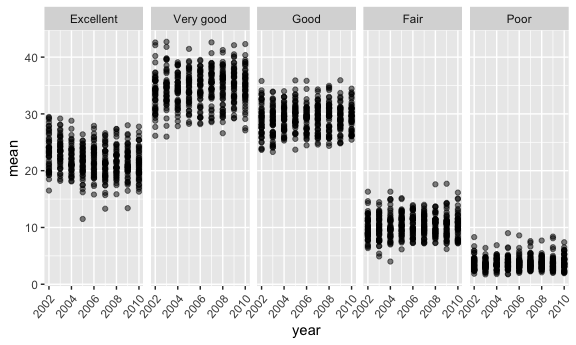
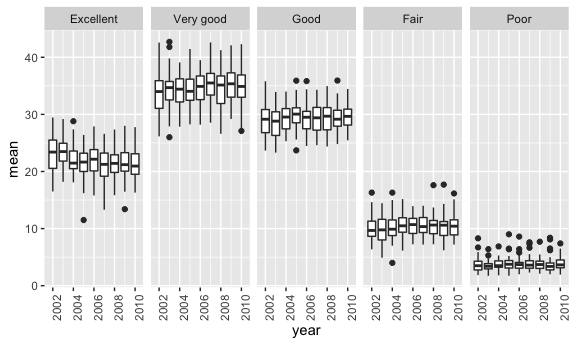
Final commit

diff --git a/p8105_hw3.md b/p8105_hw3.md
@@ -32,10 +32,9 @@ brfss_data %>%
 | FL    |    7|
 | MA    |    7|
 
+The table above shows the only states which had data on exactly seven counties in 2002.
+
 ``` r
-#During 2002, the only three states which had data on exactly seven counties were Connecticut, Florida, and Massachusetts
-
-
 brfss_data %>% 
   distinct(county, year, .keep_all = TRUE) %>%
   select(c(year, state, county)) %>%
@@ -45,12 +44,11 @@ brfss_data %>%
     geom_line()
 ```
 
-<img src="p8105_hw3_files/figure-markdown_github/q1-1.png" width="90%" />
+<img src="p8105_hw3_files/figure-markdown_github/q1_2-1.png" width="90%" />
+
+This plot does not seem to be a good choice for this data set. It is hard to enterpret anything from the graphic, it may be better to try and look into each state on its own rather than comparing them all on one plot. There is one state that is above all the rest in 2007, but this graph does not even allow us to know which state that is. We can see that the states vary a lot from one another. This may have to do with the different sizes of each state. It may be useful to control for size in order for states to be comparable, depending on what information we are trying to extract.
 
 ``` r
-#This plot does not seem to be a good choice for this data set. It is hard to enterpret anything from the graphic, it may be better to try and look into each state on its own rather than comparing them all on one plot.
-
-
 brfss_data %>%
   filter(year %in% c(2002, 2006, 2010), state == "NY", response == "Excellent") %>%
   group_by(year) %>%
@@ -65,38 +63,28 @@ brfss_data %>%
 |  2006|  22.53333|  4.000833|
 |  2010|  22.70000|  3.567212|
 
-``` r
-#It appears the mean did not change too much through the years, the standard deviation does however decrease.
+It appears the mean and the standard deviation of the proportion of "Excellent" responses accross locations in New York both decrease through the three years, although not by large amounts, especially the mean. The proportion of "Excellent" responses seems to be somewhat constant in New York, but may be on the decline.
 
+``` r
 brfss_data %>%
   group_by(year, state, response) %>%
   summarize(mean = mean(data_value, na.rm = T)) %>%
-  ggplot(aes(x = year, y = mean)) +
-  geom_point(alpha = 0.5) +
-  theme(axis.text.x = element_text(angle = 50, hjust = 1)) +
+  ggplot(aes(x = year, y = mean, group = year)) +
+  geom_boxplot() +
+  theme(axis.text.x = element_text(angle = 90, hjust = 1)) +
   facet_grid(. ~ response)
 ```
 
-<img src="p8105_hw3_files/figure-markdown_github/q1-2.png" width="90%" />
+<img src="p8105_hw3_files/figure-markdown_github/q1_4-1.png" width="90%" />
 
-``` r
-#The proportion per each response appears to be consistant accross all the years
-```
+The average proprtion in each response category per state appears to be consistant accross all the years with few outliers. The "Poor" category does appear to have a smaller spread and many more outliers compared to the other categories, but it is still consistant from years 2002 to 2010. The five categories differ very highly from one another however.
 
 Question 2
 ----------
 
 This data consists of 1384617 observations over 15 variables.
 
-There are 134 distinct isles.
-
-``` r
-instacart %>% 
-  distinct(aisle_id) %>%
-  nrow()
-```
-
-    ## [1] 134
+This data set is giving us information on the sales from instacart, telling us what items have been sold with information on the sale such as which isle and departmetn the item bought is from, the time and date it was sold on, and whether this was bought before or not. For example, it tells us that garlic couscous was bought from the instant food isles in the dry goods pasta departmenton Saturday (assuming 6 day of week refers to Saturday) at 3PM.
 
 ``` r
 instacart %>%
@@ -115,6 +103,10 @@ instacart %>%
 | yogurt                     |   55240|
 | packaged cheese            |   41699|
 
+There are 134 distinct isles.
+
+Above tells us which aisles are ordered from the most. It is interesting to see that fresh fruits and vegetables are bought a lot more than from any other aisle, almost double in the amount of orders compared to the next most bought aisle.
+
 ``` r
 instacart_plot1 = instacart %>%
   mutate(aisle_id = factor(aisle_id, levels = c(1:134))) %>%
@@ -123,7 +115,7 @@ instacart_plot1 = instacart %>%
   group_by(aisle_id) %>%
   count() %>%
   ggplot(aes(x = aisle_id, y = n)) +
-  geom_point() +
+  geom_bar(stat = "identity") +
   scale_x_continuous(breaks = seq(0, 67, 5))
 
 
@@ -134,13 +126,15 @@ instacart_plot2 = instacart %>%
   group_by(aisle_id) %>%
   count() %>%
   ggplot(aes(x = aisle_id, y = n)) +
-  geom_point() +
+  geom_bar(stat = "identity") +
   scale_x_continuous(breaks = seq(68, 134, 5))
 
 instacart_plot1 / instacart_plot2
 ```
 
-<img src="p8105_hw3_files/figure-markdown_github/q2-1.png" width="90%" />
+<img src="p8105_hw3_files/figure-markdown_github/q2_2-1.png" width="90%" />
+
+Above we can see the number of items ordered in each aisle. It is difficult to order aisles sensibly and make it readable due to the sheer amount of aisles. In order to try and maxamize readability, I used aisle ID instead of name. Although this does not make it interpritable off the bat it is easy to go back to the data set and see what each number is referig to. Dividing the plot into two also makes it easier to read what number pertains to which bar. Here we see that 24 and 83 are very high. Looking into these numbers tells us that these are the aisles for fresh fruit and fresh vegetables, which matches with our previous table.
 
 ``` r
 instacart %>%
@@ -171,6 +165,8 @@ instacart %>%
 | packaged vegetables fruits | Organic Raspberries                             |  5546|
 | packaged vegetables fruits | Seedless Red Grapes                             |  4059|
 
+The table shows popular items within the three specific aisles. It tells us that, as we would expect and seen before, "packaged vegetable fruits" top items are bought a lot more than baking ingredients and dog food care.
+
 ``` r
 instacart %>%
   filter(product_name %in% c("Pink Lady Apples", "Coffee Ice Cream")) %>%
@@ -192,16 +188,25 @@ instacart %>%
 | Saturday   |          12.26316|          12.78431|
 | Sunday     |          13.83333|          11.93750|
 
+I am assuming day 0 is referring to Monday in this data set, if not then each day will be moved one down with Sunday at the top.
+
+Our table shows that during the week coffee ice cream is bought at a later time that on the weekends. Pink Lady Apples, on the other hand, don't follow a specific pattern but are bought more on the weekends.
+
 Question 3
 ----------
+
+This data consists of 2595176 observations over 7 variables.
+
+The data is giving us information on the weather from New York weather stations from years 1981 - 2010 by day. It tells us the date, the precipitation, the snow and snow depth, and the minimum and max temperature for that day (in tenths of degrees celsius). There are many NAs in this data set, most likely a result of poor data collection at the weather stations. This may create bias results.
 
 ``` r
 ny_noaa_clean = ny_noaa %>%
   janitor::clean_names() %>%
   separate(date, into = c("year", "month", "day"), sep = "-") %>%
   mutate(year = factor(year),
-         tmax = as.integer(tmax), 
-         tmin = as.integer(tmin))
+         tmax = as.numeric(tmax)/10, 
+         tmin = as.numeric(tmin)/10,
+         prcp = prcp/10)
 
 ny_noaa_clean %>%
   count(snow) %>%
@@ -219,6 +224,10 @@ ny_noaa_clean %>%
 |    51|    18274|
 |    NA|   381221|
 
+In the data cleaning process I divided the date into its three components and converted the character vectors into numeric. I divided tmax, tmin, and prcp by ten because the data set is giving these values as tenths of the understandable unit (celsius and mm) and by dividing it is much more interpretable.
+
+The most commonly observed values for snow are 0 and NA. 0 should be observed the most because there are many days in a year where it does not rain in New York, represeted by zero. The NAs, however, are a result of poor compilation from the weather stations and are unfortunate.
+
 ``` r
 ny_noaa_clean %>%
   filter(month %in% c("01", "07")) %>%
@@ -226,30 +235,35 @@ ny_noaa_clean %>%
   summarize(mean_tmax = mean(tmax, na.rm = TRUE)) %>%
   ggplot(aes(x = year, y = mean_tmax)) +
     geom_point(alpha = 0.5) +
-    theme(axis.text.x = element_text(angle = 75, hjust = 1)) +
+    theme(axis.text.x = element_text(angle = 90)) +
     facet_grid(. ~ month)
 ```
 
     ## Warning: Removed 5970 rows containing missing values (geom_point).
 
-<img src="p8105_hw3_files/figure-markdown_github/q3-1.png" width="90%" />
+<img src="p8105_hw3_files/figure-markdown_github/q3_2-1.png" width="90%" />
+
+The plot tells us that the max temperature is much higher in July compared to January, which is to be expected. There does seem to be a lot of variation from year to year however in average max temperatures. More then that it is hard to interpret too much from the graphic. There are many outliers, this can be a result from inaccurate recordings or simply a strange day.
 
 ``` r
 tmax_vs_tmin = ny_noaa_clean %>%
   ggplot(aes(x = tmax, y = tmin)) +
-  geom_point()
+  geom_hex()
 
 snow_per_year = ny_noaa_clean %>%
   filter(snow %in% c(1:99)) %>%
-  group_by(year) %>%
-  ggplot(aes(x = snow)) +
-  geom_histogram()
+  ggplot(aes(x = snow, y = year)) +
+  geom_density_ridges(scale = .85)
 
 tmax_vs_tmin + snow_per_year
 ```
 
-    ## Warning: Removed 1136276 rows containing missing values (geom_point).
+    ## Warning: Removed 1136276 rows containing non-finite values (stat_binhex).
 
-    ## `stat_bin()` using `bins = 30`. Pick better value with `binwidth`.
+    ## Picking joint bandwidth of 3.76
 
-<img src="p8105_hw3_files/figure-markdown_github/q3-2.png" width="90%" />
+<img src="p8105_hw3_files/figure-markdown_github/q3_3-1.png" width="90%" />
+
+The first plot shows that there are two higher density combinations of tmax and tmin. We also see that there are a few outliers. The particularly alarming point is the 60/60 point, which seems like it must be an error in the recording of temperature.
+
+The second plot shows the distributions of snow through the years. It appears that it is pretty constant accross all the years with few variations. The higher density occurs around 12 mm and 24 mm with another smaller accumulation of density at around 45 mm of snow and 75 mm.
